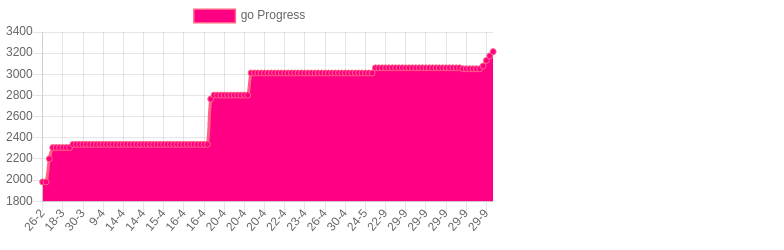
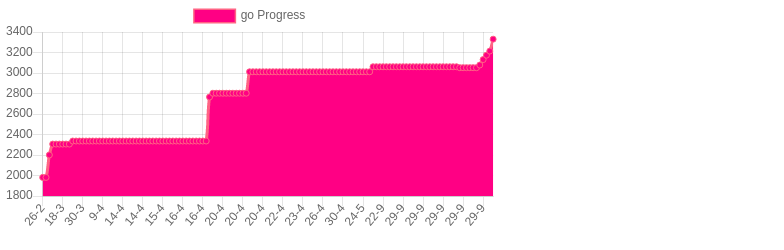
golang design paterns

Changed region(s): [[0.0, 0.14, 0.6429, 0.644], [0.0, 0.672, 0.6429, 0.924]]

diff --git a/total.html b/total.html
@@ -9,7 +9,7 @@
         <script src="https://cdn.jsdelivr.net/npm/chart.js@2.8.0"></script>
         <script>
           var ctx = document.getElementById("total").getContext("2d");
-          const goLabelsDates = ["2021-02-27T01:37:43.112Z","2021-02-27T01:38:01.628Z","2021-03-01T13:41:18.753Z","2021-03-01T14:53:41.991Z","2021-03-01T15:08:00.851Z","2021-03-01T15:09:10.635Z","2021-03-01T15:22:55.385Z","2021-03-03T15:31:41.151Z","2021-03-05T14:02:13.446Z","2021-03-10T14:50:13.297Z","2021-03-11T01:54:03.424Z","2021-03-11T15:32:47.647Z","2021-03-11T16:01:51.191Z","2021-03-12T00:36:04.646Z","2021-03-13T00:14:58.179Z","2021-03-16T05:30:04.043Z","2021-03-17T21:17:52.181Z","2021-03-18T03:42:56.998Z","2021-03-18T03:44:29.834Z","2021-03-18T03:45:35.160Z","2021-03-18T03:45:54.668Z","2021-03-18T03:48:46.007Z","2021-03-18T05:10:54.427Z","2021-03-18T05:44:13.724Z","2021-03-18T05:56:11.032Z","2021-03-18T22:11:28.339Z","2021-03-19T11:28:55.383Z","2021-03-22T13:51:43.977Z","2021-03-23T01:52:09.452Z","2021-03-23T15:45:53.765Z","2021-03-24T01:46:02.104Z","2021-03-30T10:56:50.711Z","2021-04-01T15:03:17.764Z","2021-04-01T23:15:02.096Z","2021-04-07T19:21:55.040Z","2021-04-08T15:21:14.479Z","2021-04-09T23:17:58.037Z","2021-04-09T23:32:26.341Z","2021-04-09T23:34:42.049Z","2021-04-09T23:36:18.092Z","2021-04-10T01:45:40.218Z","2021-04-12T15:41:26.676Z","2021-04-14T02:00:41.039Z","2021-04-14T20:02:44.141Z","2021-04-14T21:14:15.821Z","2021-04-14T22:06:37.573Z","2021-04-14T22:42:14.693Z","2021-04-14T23:10:13.243Z","2021-04-14T23:22:54.824Z","2021-04-14T23:49:37.009Z","2021-04-15T02:28:51.974Z","2021-04-15T14:33:50.618Z","2021-04-15T15:09:11.104Z","2021-04-15T20:35:30.580Z","2021-04-16T00:04:33.158Z","2021-04-16T01:36:06.294Z","2021-04-16T01:53:35.992Z","2021-04-16T02:00:15.474Z","2021-04-16T16:08:40.977Z","2021-04-16T16:27:06.953Z","2021-04-16T16:59:30.526Z","2021-04-16T17:00:53.737Z","2021-04-16T23:14:36.283Z","2021-04-17T00:39:16.890Z","2021-04-17T01:11:09.986Z","2021-04-17T01:32:30.011Z","2021-04-17T01:44:22.446Z","2021-04-17T01:44:33.941Z","2021-04-17T02:35:55.774Z","2021-04-19T15:41:31.091Z","2021-04-20T15:32:32.239Z","2021-04-20T15:33:16.014Z","2021-04-20T15:36:11.438Z","2021-04-20T15:38:44.606Z","2021-04-20T15:41:50.350Z","2021-04-20T15:44:34.448Z","2021-04-20T15:46:49.295Z","2021-04-20T15:47:24.048Z","2021-04-20T15:56:22.046Z","2021-04-20T16:00:02.540Z","2021-04-20T16:01:15.511Z","2021-04-20T23:19:23.938Z","2021-04-21T00:40:54.443Z","2021-04-21T00:47:22.662Z","2021-04-21T02:01:09.006Z","2021-04-21T02:19:22.734Z","2021-04-21T15:53:36.038Z","2021-04-21T16:21:45.704Z","2021-04-21T16:26:32.790Z","2021-04-21T16:40:24.916Z","2021-04-21T16:43:40.235Z","2021-04-21T16:43:59.719Z","2021-04-21T16:44:40.304Z","2021-04-21T16:46:13.191Z","2021-04-21T16:48:41.898Z","2021-04-21T16:49:08.753Z","2021-04-21T16:50:32.397Z","2021-04-21T16:51:58.778Z","2021-04-23T00:49:32.826Z","2021-04-23T15:03:06.320Z","2021-04-23T15:04:13.039Z","2021-04-23T15:05:25.923Z","2021-04-23T15:11:04.285Z","2021-04-23T15:11:38.826Z","2021-04-23T15:12:05.618Z","2021-04-23T15:12:32.508Z","2021-04-23T15:13:17.058Z","2021-04-23T17:08:27.046Z","2021-04-23T18:02:30.357Z","2021-04-23T22:58:36.946Z","2021-04-23T23:00:26.027Z","2021-04-23T23:52:58.438Z","2021-04-24T01:12:51.525Z","2021-04-24T02:01:46.612Z","2021-04-26T12:46:47.336Z","2021-04-26T13:13:50.946Z","2021-04-26T13:16:04.473Z","2021-04-27T00:11:42.582Z","2021-04-30T03:26:37.101Z","2021-04-30T04:33:42.472Z","2021-04-30T05:15:42.646Z","2021-04-30T14:31:10.927Z","2021-05-04T01:51:49.907Z","2021-05-21T00:30:21.777Z","2021-05-24T15:07:09.579Z","2021-05-24T15:08:05.658Z","2021-05-24T15:22:20.903Z","2021-05-24T15:33:34.626Z","2021-05-24T15:46:16.101Z","2021-05-24T15:48:12.171Z","2021-05-24T15:53:54.498Z","2021-05-24T15:56:18.488Z","2021-05-28T22:50:32.914Z","2021-06-02T17:58:30.866Z","2021-07-01T05:04:25.826Z","2021-07-01T05:05:33.079Z","2021-09-03T16:56:54.023Z","2021-09-23T00:10:19.737Z","2021-09-23T00:54:30.987Z","2021-09-25T00:13:33.106Z","2021-09-25T00:56:09.874Z","2021-09-29T20:37:10.460Z","2021-09-29T20:39:45.107Z","2021-09-29T20:45:08.406Z","2021-09-29T20:45:42.995Z","2021-09-29T20:51:54.166Z","2021-09-29T21:04:45.487Z","2021-09-29T21:22:49.580Z","2021-09-29T21:23:34.860Z","2021-09-29T21:24:52.804Z","2021-09-29T21:25:12.938Z","2021-09-29T21:31:41.466Z","2021-09-29T21:32:02.856Z","2021-09-29T21:32:15.096Z","2021-09-29T21:37:01.273Z","2021-09-29T21:39:46.109Z","2021-09-29T21:40:23.862Z","2021-09-29T21:41:38.242Z","2021-09-29T21:45:36.053Z","2021-09-29T21:48:31.229Z","2021-09-29T21:49:46.414Z","2021-09-29T21:50:16.628Z","2021-09-29T21:52:23.035Z","2021-09-29T21:58:46.153Z","2021-09-29T21:59:06.075Z","2021-09-29T22:09:34.545Z","2021-09-29T22:24:59.487Z","2021-09-29T22:39:38.616Z","2021-09-29T23:07:40.178Z","2021-10-01T13:21:48.217Z","2021-10-01T14:11:47.682Z","2021-10-05T00:24:42.303Z","2021-10-05T14:36:34.233Z","2021-10-05T15:30:47.628Z",];
+          const goLabelsDates = ["2021-02-27T01:37:43.112Z","2021-02-27T01:38:01.628Z","2021-03-01T13:41:18.753Z","2021-03-01T14:53:41.991Z","2021-03-01T15:08:00.851Z","2021-03-01T15:09:10.635Z","2021-03-01T15:22:55.385Z","2021-03-03T15:31:41.151Z","2021-03-05T14:02:13.446Z","2021-03-10T14:50:13.297Z","2021-03-11T01:54:03.424Z","2021-03-11T15:32:47.647Z","2021-03-11T16:01:51.191Z","2021-03-12T00:36:04.646Z","2021-03-13T00:14:58.179Z","2021-03-16T05:30:04.043Z","2021-03-17T21:17:52.181Z","2021-03-18T03:42:56.998Z","2021-03-18T03:44:29.834Z","2021-03-18T03:45:35.160Z","2021-03-18T03:45:54.668Z","2021-03-18T03:48:46.007Z","2021-03-18T05:10:54.427Z","2021-03-18T05:44:13.724Z","2021-03-18T05:56:11.032Z","2021-03-18T22:11:28.339Z","2021-03-19T11:28:55.383Z","2021-03-22T13:51:43.977Z","2021-03-23T01:52:09.452Z","2021-03-23T15:45:53.765Z","2021-03-24T01:46:02.104Z","2021-03-30T10:56:50.711Z","2021-04-01T15:03:17.764Z","2021-04-01T23:15:02.096Z","2021-04-07T19:21:55.040Z","2021-04-08T15:21:14.479Z","2021-04-09T23:17:58.037Z","2021-04-09T23:32:26.341Z","2021-04-09T23:34:42.049Z","2021-04-09T23:36:18.092Z","2021-04-10T01:45:40.218Z","2021-04-12T15:41:26.676Z","2021-04-14T02:00:41.039Z","2021-04-14T20:02:44.141Z","2021-04-14T21:14:15.821Z","2021-04-14T22:06:37.573Z","2021-04-14T22:42:14.693Z","2021-04-14T23:10:13.243Z","2021-04-14T23:22:54.824Z","2021-04-14T23:49:37.009Z","2021-04-15T02:28:51.974Z","2021-04-15T14:33:50.618Z","2021-04-15T15:09:11.104Z","2021-04-15T20:35:30.580Z","2021-04-16T00:04:33.158Z","2021-04-16T01:36:06.294Z","2021-04-16T01:53:35.992Z","2021-04-16T02:00:15.474Z","2021-04-16T16:08:40.977Z","2021-04-16T16:27:06.953Z","2021-04-16T16:59:30.526Z","2021-04-16T17:00:53.737Z","2021-04-16T23:14:36.283Z","2021-04-17T00:39:16.890Z","2021-04-17T01:11:09.986Z","2021-04-17T01:32:30.011Z","2021-04-17T01:44:22.446Z","2021-04-17T01:44:33.941Z","2021-04-17T02:35:55.774Z","2021-04-19T15:41:31.091Z","2021-04-20T15:32:32.239Z","2021-04-20T15:33:16.014Z","2021-04-20T15:36:11.438Z","2021-04-20T15:38:44.606Z","2021-04-20T15:41:50.350Z","2021-04-20T15:44:34.448Z","2021-04-20T15:46:49.295Z","2021-04-20T15:47:24.048Z","2021-04-20T15:56:22.046Z","2021-04-20T16:00:02.540Z","2021-04-20T16:01:15.511Z","2021-04-20T23:19:23.938Z","2021-04-21T00:40:54.443Z","2021-04-21T00:47:22.662Z","2021-04-21T02:01:09.006Z","2021-04-21T02:19:22.734Z","2021-04-21T15:53:36.038Z","2021-04-21T16:21:45.704Z","2021-04-21T16:26:32.790Z","2021-04-21T16:40:24.916Z","2021-04-21T16:43:40.235Z","2021-04-21T16:43:59.719Z","2021-04-21T16:44:40.304Z","2021-04-21T16:46:13.191Z","2021-04-21T16:48:41.898Z","2021-04-21T16:49:08.753Z","2021-04-21T16:50:32.397Z","2021-04-21T16:51:58.778Z","2021-04-23T00:49:32.826Z","2021-04-23T15:03:06.320Z","2021-04-23T15:04:13.039Z","2021-04-23T15:05:25.923Z","2021-04-23T15:11:04.285Z","2021-04-23T15:11:38.826Z","2021-04-23T15:12:05.618Z","2021-04-23T15:12:32.508Z","2021-04-23T15:13:17.058Z","2021-04-23T17:08:27.046Z","2021-04-23T18:02:30.357Z","2021-04-23T22:58:36.946Z","2021-04-23T23:00:26.027Z","2021-04-23T23:52:58.438Z","2021-04-24T01:12:51.525Z","2021-04-24T02:01:46.612Z","2021-04-26T12:46:47.336Z","2021-04-26T13:13:50.946Z","2021-04-26T13:16:04.473Z","2021-04-27T00:11:42.582Z","2021-04-30T03:26:37.101Z","2021-04-30T04:33:42.472Z","2021-04-30T05:15:42.646Z","2021-04-30T14:31:10.927Z","2021-05-04T01:51:49.907Z","2021-05-21T00:30:21.777Z","2021-05-24T15:07:09.579Z","2021-05-24T15:08:05.658Z","2021-05-24T15:22:20.903Z","2021-05-24T15:33:34.626Z","2021-05-24T15:46:16.101Z","2021-05-24T15:48:12.171Z","2021-05-24T15:53:54.498Z","2021-05-24T15:56:18.488Z","2021-05-28T22:50:32.914Z","2021-06-02T17:58:30.866Z","2021-07-01T05:04:25.826Z","2021-07-01T05:05:33.079Z","2021-09-03T16:56:54.023Z","2021-09-23T00:10:19.737Z","2021-09-23T00:54:30.987Z","2021-09-25T00:13:33.106Z","2021-09-25T00:56:09.874Z","2021-09-29T20:37:10.460Z","2021-09-29T20:39:45.107Z","2021-09-29T20:45:08.406Z","2021-09-29T20:45:42.995Z","2021-09-29T20:51:54.166Z","2021-09-29T21:04:45.487Z","2021-09-29T21:22:49.580Z","2021-09-29T21:23:34.860Z","2021-09-29T21:24:52.804Z","2021-09-29T21:25:12.938Z","2021-09-29T21:31:41.466Z","2021-09-29T21:32:02.856Z","2021-09-29T21:32:15.096Z","2021-09-29T21:37:01.273Z","2021-09-29T21:39:46.109Z","2021-09-29T21:40:23.862Z","2021-09-29T21:41:38.242Z","2021-09-29T21:45:36.053Z","2021-09-29T21:48:31.229Z","2021-09-29T21:49:46.414Z","2021-09-29T21:50:16.628Z","2021-09-29T21:52:23.035Z","2021-09-29T21:58:46.153Z","2021-09-29T21:59:06.075Z","2021-09-29T22:09:34.545Z","2021-09-29T22:24:59.487Z","2021-09-29T22:39:38.616Z","2021-09-29T23:07:40.178Z","2021-10-01T13:21:48.217Z","2021-10-01T14:11:47.682Z","2021-10-05T00:24:42.303Z","2021-10-05T14:36:34.233Z","2021-10-05T15:30:47.628Z","2021-10-13T14:16:32.194Z",];
           var chart = new Chart(ctx, {
             type: 'line',
             data: {
@@ -18,7 +18,7 @@
                 label: 'total Progress',
                 backgroundColor: 'rgb(255, 0, 132)',
                 borderColor: 'rgb(255, 99, 132)',
-                data: [7975,7975,8307,8526,8526,8527,8573,9171,9358,9751,9908,10232,10231,10643,10911,11353,12576,12666,0,0,169,12835,12906,12953,12953,13141,13254,13354,13406,13417,13568,13708,13845,14886,15140,15267,15766,15777,15777,15777,16211,16345,17062,17247,17324,17464,17697,17849,17916,18002,18002,18202,18292,18515,18590,18744,18837,18876,19030,19086,19114,19143,19378,19465,19607,19714,19782,19782,19791,20220,20257,20257,20257,20257,20257,20257,20257,20257,20257,20257,20257,21179,21238,21279,21319,21319,21430,21506,21543,65995,0,44452,44452,44452,20233,20233,1629,23172,23326,23693,23693,23693,23693,23693,23693,23693,23693,23693,23693,23693,23693,23905,24023,24262,24275,24376,24376,24452,25078,25182,25238,25232,25233,25334,23696,25427,25453,25466,25491,11565,5707,5707,4421,4535,4535,3678,3678,3678,5861,5318,5422,5473,12667,12667,12667,12667,12667,12667,12667,12667,12667,12667,12667,12667,12667,12667,12667,12667,12667,12667,12658,12658,12657,12657,12657,12657,12683,12736,12779,12888,2619,2775,9772,9922,]
+                data: [7975,7975,8307,8526,8526,8527,8573,9171,9358,9751,9908,10232,10231,10643,10911,11353,12576,12666,0,0,169,12835,12906,12953,12953,13141,13254,13354,13406,13417,13568,13708,13845,14886,15140,15267,15766,15777,15777,15777,16211,16345,17062,17247,17324,17464,17697,17849,17916,18002,18002,18202,18292,18515,18590,18744,18837,18876,19030,19086,19114,19143,19378,19465,19607,19714,19782,19782,19791,20220,20257,20257,20257,20257,20257,20257,20257,20257,20257,20257,20257,21179,21238,21279,21319,21319,21430,21506,21543,65995,0,44452,44452,44452,20233,20233,1629,23172,23326,23693,23693,23693,23693,23693,23693,23693,23693,23693,23693,23693,23693,23905,24023,24262,24275,24376,24376,24452,25078,25182,25238,25232,25233,25334,23696,25427,25453,25466,25491,11565,5707,5707,4421,4535,4535,3678,3678,3678,5861,5318,5422,5473,12667,12667,12667,12667,12667,12667,12667,12667,12667,12667,12667,12667,12667,12667,12667,12667,12667,12667,12658,12658,12657,12657,12657,12657,12683,12736,12779,12888,2619,2775,9772,9922,10674,]
               }]
             },
           });

diff --git a/go.html b/go.html
@@ -9,7 +9,7 @@
         <script src="https://cdn.jsdelivr.net/npm/chart.js@2.8.0"></script>
         <script>
           var ctx = document.getElementById("go").getContext("2d");
-          const goLabelsDates = ["2021-02-27T01:37:43.111Z","2021-02-27T01:38:01.627Z","2021-03-01T14:53:41.990Z","2021-03-16T05:30:04.043Z","2021-03-18T05:44:13.724Z","2021-03-18T05:56:11.032Z","2021-03-18T22:11:28.339Z","2021-03-19T11:28:55.382Z","2021-03-22T13:51:43.976Z","2021-03-23T01:52:09.451Z","2021-03-23T15:45:53.764Z","2021-03-24T01:46:02.103Z","2021-03-30T10:56:50.710Z","2021-04-01T15:03:17.763Z","2021-04-01T23:15:02.095Z","2021-04-07T19:21:55.038Z","2021-04-08T15:21:14.478Z","2021-04-09T23:17:58.035Z","2021-04-09T23:32:26.340Z","2021-04-09T23:34:42.047Z","2021-04-09T23:36:18.091Z","2021-04-10T01:45:40.217Z","2021-04-12T15:41:26.675Z","2021-04-14T02:00:41.039Z","2021-04-14T20:02:44.140Z","2021-04-14T21:14:15.820Z","2021-04-14T22:06:37.573Z","2021-04-14T22:42:14.693Z","2021-04-14T23:10:13.242Z","2021-04-14T23:22:54.823Z","2021-04-14T23:49:37.009Z","2021-04-15T02:28:51.973Z","2021-04-15T14:33:50.618Z","2021-04-15T15:09:11.102Z","2021-04-15T20:35:30.579Z","2021-04-16T00:04:33.157Z","2021-04-16T01:36:06.293Z","2021-04-16T01:53:35.991Z","2021-04-16T02:00:15.472Z","2021-04-16T16:08:40.975Z","2021-04-16T16:27:06.952Z","2021-04-16T16:59:30.524Z","2021-04-16T17:00:53.733Z","2021-04-16T23:14:36.282Z","2021-04-17T00:39:16.888Z","2021-04-17T01:11:09.985Z","2021-04-17T01:32:30.008Z","2021-04-17T01:44:22.444Z","2021-04-17T01:44:33.940Z","2021-04-17T02:35:55.773Z","2021-04-19T15:41:31.090Z","2021-04-20T15:32:32.238Z","2021-04-20T15:33:16.013Z","2021-04-20T15:36:11.438Z","2021-04-20T15:38:44.605Z","2021-04-20T15:41:50.349Z","2021-04-20T15:44:34.447Z","2021-04-20T15:46:49.294Z","2021-04-20T15:47:24.047Z","2021-04-20T15:56:22.045Z","2021-04-20T16:00:02.539Z","2021-04-20T16:01:15.510Z","2021-04-20T23:19:23.937Z","2021-04-21T00:40:54.442Z","2021-04-21T00:47:22.661Z","2021-04-21T02:01:09.005Z","2021-04-21T02:19:22.733Z","2021-04-21T15:53:36.037Z","2021-04-21T16:21:45.703Z","2021-04-21T16:26:32.789Z","2021-04-21T16:40:24.916Z","2021-04-21T16:51:58.777Z","2021-04-23T00:49:32.825Z","2021-04-23T15:03:06.327Z","2021-04-23T15:04:13.044Z","2021-04-23T15:05:25.923Z","2021-04-23T15:13:17.062Z","2021-04-23T17:08:27.045Z","2021-04-23T18:02:30.354Z","2021-04-23T22:58:36.945Z","2021-04-23T23:00:26.027Z","2021-04-23T23:52:58.438Z","2021-04-24T01:12:51.524Z","2021-04-24T02:01:46.611Z","2021-04-26T12:46:47.335Z","2021-04-26T13:13:50.945Z","2021-04-26T13:16:04.471Z","2021-04-27T00:11:42.580Z","2021-04-30T03:26:37.098Z","2021-04-30T04:33:42.472Z","2021-04-30T05:15:42.645Z","2021-04-30T14:31:10.926Z","2021-05-04T01:51:49.906Z","2021-05-21T00:30:21.772Z","2021-05-24T15:07:09.573Z","2021-05-24T15:08:05.657Z","2021-05-24T15:22:20.902Z","2021-05-24T15:33:34.625Z","2021-05-24T15:46:16.101Z","2021-07-01T05:05:33.078Z","2021-09-03T16:56:54.022Z","2021-09-23T00:10:19.736Z","2021-09-23T00:54:30.986Z","2021-09-25T00:13:33.105Z","2021-09-25T00:56:09.873Z","2021-09-29T20:37:10.456Z","2021-09-29T20:39:45.106Z","2021-09-29T20:45:08.405Z","2021-09-29T20:45:42.993Z","2021-09-29T20:51:54.165Z","2021-09-29T21:04:45.485Z","2021-09-29T21:22:49.578Z","2021-09-29T21:23:34.859Z","2021-09-29T21:24:52.803Z","2021-09-29T21:25:12.936Z","2021-09-29T21:31:41.464Z","2021-09-29T21:32:02.853Z","2021-09-29T21:32:15.094Z","2021-09-29T21:36:24.777Z","2021-09-29T21:37:01.271Z","2021-09-29T21:39:46.106Z","2021-09-29T21:40:23.860Z","2021-09-29T21:41:38.229Z","2021-09-29T21:45:36.049Z","2021-09-29T21:48:31.220Z","2021-09-29T21:49:46.410Z","2021-09-29T21:50:16.624Z","2021-09-29T21:52:23.032Z","2021-09-29T21:58:46.150Z","2021-09-29T21:59:06.072Z","2021-09-29T22:09:34.542Z","2021-09-29T22:24:59.484Z","2021-09-29T22:39:38.613Z","2021-09-29T23:07:40.175Z","2021-10-01T13:21:48.213Z",];
+          const goLabelsDates = ["2021-02-27T01:37:43.111Z","2021-02-27T01:38:01.627Z","2021-03-01T14:53:41.990Z","2021-03-16T05:30:04.043Z","2021-03-18T05:44:13.724Z","2021-03-18T05:56:11.032Z","2021-03-18T22:11:28.339Z","2021-03-19T11:28:55.382Z","2021-03-22T13:51:43.976Z","2021-03-23T01:52:09.451Z","2021-03-23T15:45:53.764Z","2021-03-24T01:46:02.103Z","2021-03-30T10:56:50.710Z","2021-04-01T15:03:17.763Z","2021-04-01T23:15:02.095Z","2021-04-07T19:21:55.038Z","2021-04-08T15:21:14.478Z","2021-04-09T23:17:58.035Z","2021-04-09T23:32:26.340Z","2021-04-09T23:34:42.047Z","2021-04-09T23:36:18.091Z","2021-04-10T01:45:40.217Z","2021-04-12T15:41:26.675Z","2021-04-14T02:00:41.039Z","2021-04-14T20:02:44.140Z","2021-04-14T21:14:15.820Z","2021-04-14T22:06:37.573Z","2021-04-14T22:42:14.693Z","2021-04-14T23:10:13.242Z","2021-04-14T23:22:54.823Z","2021-04-14T23:49:37.009Z","2021-04-15T02:28:51.973Z","2021-04-15T14:33:50.618Z","2021-04-15T15:09:11.102Z","2021-04-15T20:35:30.579Z","2021-04-16T00:04:33.157Z","2021-04-16T01:36:06.293Z","2021-04-16T01:53:35.991Z","2021-04-16T02:00:15.472Z","2021-04-16T16:08:40.975Z","2021-04-16T16:27:06.952Z","2021-04-16T16:59:30.524Z","2021-04-16T17:00:53.733Z","2021-04-16T23:14:36.282Z","2021-04-17T00:39:16.888Z","2021-04-17T01:11:09.985Z","2021-04-17T01:32:30.008Z","2021-04-17T01:44:22.444Z","2021-04-17T01:44:33.940Z","2021-04-17T02:35:55.773Z","2021-04-19T15:41:31.090Z","2021-04-20T15:32:32.238Z","2021-04-20T15:33:16.013Z","2021-04-20T15:36:11.438Z","2021-04-20T15:38:44.605Z","2021-04-20T15:41:50.349Z","2021-04-20T15:44:34.447Z","2021-04-20T15:46:49.294Z","2021-04-20T15:47:24.047Z","2021-04-20T15:56:22.045Z","2021-04-20T16:00:02.539Z","2021-04-20T16:01:15.510Z","2021-04-20T23:19:23.937Z","2021-04-21T00:40:54.442Z","2021-04-21T00:47:22.661Z","2021-04-21T02:01:09.005Z","2021-04-21T02:19:22.733Z","2021-04-21T15:53:36.037Z","2021-04-21T16:21:45.703Z","2021-04-21T16:26:32.789Z","2021-04-21T16:40:24.916Z","2021-04-21T16:51:58.777Z","2021-04-23T00:49:32.825Z","2021-04-23T15:03:06.327Z","2021-04-23T15:04:13.044Z","2021-04-23T15:05:25.923Z","2021-04-23T15:13:17.062Z","2021-04-23T17:08:27.045Z","2021-04-23T18:02:30.354Z","2021-04-23T22:58:36.945Z","2021-04-23T23:00:26.027Z","2021-04-23T23:52:58.438Z","2021-04-24T01:12:51.524Z","2021-04-24T02:01:46.611Z","2021-04-26T12:46:47.335Z","2021-04-26T13:13:50.945Z","2021-04-26T13:16:04.471Z","2021-04-27T00:11:42.580Z","2021-04-30T03:26:37.098Z","2021-04-30T04:33:42.472Z","2021-04-30T05:15:42.645Z","2021-04-30T14:31:10.926Z","2021-05-04T01:51:49.906Z","2021-05-21T00:30:21.772Z","2021-05-24T15:07:09.573Z","2021-05-24T15:08:05.657Z","2021-05-24T15:22:20.902Z","2021-05-24T15:33:34.625Z","2021-05-24T15:46:16.101Z","2021-07-01T05:05:33.078Z","2021-09-03T16:56:54.022Z","2021-09-23T00:10:19.736Z","2021-09-23T00:54:30.986Z","2021-09-25T00:13:33.105Z","2021-09-25T00:56:09.873Z","2021-09-29T20:37:10.456Z","2021-09-29T20:39:45.106Z","2021-09-29T20:45:08.405Z","2021-09-29T20:45:42.993Z","2021-09-29T20:51:54.165Z","2021-09-29T21:04:45.485Z","2021-09-29T21:22:49.578Z","2021-09-29T21:23:34.859Z","2021-09-29T21:24:52.803Z","2021-09-29T21:25:12.936Z","2021-09-29T21:31:41.464Z","2021-09-29T21:32:02.853Z","2021-09-29T21:32:15.094Z","2021-09-29T21:36:24.777Z","2021-09-29T21:37:01.271Z","2021-09-29T21:39:46.106Z","2021-09-29T21:40:23.860Z","2021-09-29T21:41:38.229Z","2021-09-29T21:45:36.049Z","2021-09-29T21:48:31.220Z","2021-09-29T21:49:46.410Z","2021-09-29T21:50:16.624Z","2021-09-29T21:52:23.032Z","2021-09-29T21:58:46.150Z","2021-09-29T21:59:06.072Z","2021-09-29T22:09:34.542Z","2021-09-29T22:24:59.484Z","2021-09-29T22:39:38.613Z","2021-09-29T23:07:40.175Z","2021-10-01T13:21:48.213Z","2021-10-13T14:16:32.192Z",];
           var chart = new Chart(ctx, {
             type: 'line',
             data: {
@@ -18,7 +18,7 @@
                 label: 'go Progress',
                 backgroundColor: 'rgb(255, 0, 132)',
                 borderColor: 'rgb(255, 99, 132)',
-                data: [1982,1982,2201,2307,2307,2307,2307,2307,2307,2337,2337,2337,2337,2337,2337,2337,2337,2337,2337,2337,2337,2337,2337,2337,2337,2337,2337,2337,2337,2337,2337,2337,2337,2337,2337,2337,2337,2337,2337,2337,2337,2337,2337,2337,2337,2337,2337,2337,2337,2337,2766,2803,2803,2803,2803,2803,2803,2803,2803,2803,2803,2803,3012,3012,3012,3012,3012,3012,3012,3012,3012,3012,3012,3012,3012,3012,3012,3012,3012,3012,3012,3012,3012,3012,3012,3012,3012,3012,3012,3012,3012,3012,3012,3012,3012,3012,3012,3012,3012,3061,3061,3061,3061,3061,3061,3061,3061,3061,3061,3061,3061,3061,3061,3061,3061,3061,3061,3061,3061,3061,3061,3061,3061,3061,3061,3052,3052,3052,3052,3052,3052,3078,3131,3174,3214,]
+                data: [1982,1982,2201,2307,2307,2307,2307,2307,2307,2337,2337,2337,2337,2337,2337,2337,2337,2337,2337,2337,2337,2337,2337,2337,2337,2337,2337,2337,2337,2337,2337,2337,2337,2337,2337,2337,2337,2337,2337,2337,2337,2337,2337,2337,2337,2337,2337,2337,2337,2337,2766,2803,2803,2803,2803,2803,2803,2803,2803,2803,2803,2803,3012,3012,3012,3012,3012,3012,3012,3012,3012,3012,3012,3012,3012,3012,3012,3012,3012,3012,3012,3012,3012,3012,3012,3012,3012,3012,3012,3012,3012,3012,3012,3012,3012,3012,3012,3012,3012,3061,3061,3061,3061,3061,3061,3061,3061,3061,3061,3061,3061,3061,3061,3061,3061,3061,3061,3061,3061,3061,3061,3061,3061,3061,3061,3052,3052,3052,3052,3052,3052,3078,3131,3174,3214,3330,]
               }]
             },
           });

diff --git a/js.html b/js.html
@@ -9,7 +9,7 @@
         <script src="https://cdn.jsdelivr.net/npm/chart.js@2.8.0"></script>
         <script>
           var ctx = document.getElementById("js").getContext("2d");
-          const goLabelsDates = ["2021-02-27T01:37:43.110Z","2021-02-27T01:38:01.626Z","2021-03-11T01:54:03.422Z","2021-03-17T21:17:52.179Z","2021-03-18T05:44:13.723Z","2021-03-18T05:56:11.032Z","2021-03-18T22:11:28.338Z","2021-03-19T11:28:55.382Z","2021-03-22T13:51:43.976Z","2021-03-23T01:52:09.451Z","2021-03-23T15:45:53.764Z","2021-03-24T01:46:02.103Z","2021-03-30T10:56:50.709Z","2021-04-01T15:03:17.762Z","2021-04-01T23:15:02.094Z","2021-04-07T19:21:55.038Z","2021-04-08T15:21:14.478Z","2021-04-09T23:17:58.035Z","2021-04-09T23:32:26.339Z","2021-04-09T23:34:42.047Z","2021-04-09T23:36:18.091Z","2021-04-10T01:45:40.217Z","2021-04-12T15:41:26.675Z","2021-04-14T02:00:41.038Z","2021-04-14T20:02:44.140Z","2021-04-14T21:14:15.820Z","2021-04-14T22:06:37.572Z","2021-04-14T22:42:14.692Z","2021-04-14T23:10:13.242Z","2021-04-14T23:22:54.823Z","2021-04-14T23:49:37.008Z","2021-04-15T02:28:51.973Z","2021-04-15T14:33:50.618Z","2021-04-15T15:09:11.102Z","2021-04-15T20:35:30.579Z","2021-04-16T00:04:33.157Z","2021-04-16T01:36:06.293Z","2021-04-16T01:53:35.990Z","2021-04-16T02:00:15.472Z","2021-04-16T16:08:40.975Z","2021-04-16T16:27:06.951Z","2021-04-16T16:59:30.524Z","2021-04-16T17:00:53.732Z","2021-04-16T23:14:36.282Z","2021-04-17T00:39:16.888Z","2021-04-17T01:11:09.984Z","2021-04-17T01:32:30.007Z","2021-04-17T01:44:22.442Z","2021-04-17T01:44:33.939Z","2021-04-17T02:35:55.772Z","2021-04-19T15:41:31.090Z","2021-04-20T15:32:32.237Z","2021-04-20T15:33:16.013Z","2021-04-20T15:36:11.437Z","2021-04-20T15:38:44.605Z","2021-04-20T15:41:50.349Z","2021-04-20T15:44:34.447Z","2021-04-20T15:46:49.293Z","2021-04-20T15:47:24.046Z","2021-04-20T15:56:22.045Z","2021-04-20T16:00:02.539Z","2021-04-20T16:01:15.510Z","2021-04-20T23:19:23.937Z","2021-04-21T00:40:54.442Z","2021-04-21T00:47:22.661Z","2021-04-21T02:01:09.004Z","2021-04-21T02:19:22.733Z","2021-04-21T15:53:36.037Z","2021-04-21T16:21:45.703Z","2021-04-21T16:26:32.789Z","2021-04-21T16:40:24.915Z","2021-04-21T16:51:58.777Z","2021-04-23T00:49:32.825Z","2021-04-23T15:03:06.327Z","2021-04-23T15:04:13.044Z","2021-04-23T15:05:25.922Z","2021-04-23T15:13:17.062Z","2021-04-23T17:08:27.043Z","2021-04-23T18:02:30.352Z","2021-04-23T22:58:36.943Z","2021-04-23T23:00:26.025Z","2021-04-23T23:52:58.436Z","2021-04-24T01:12:51.523Z","2021-04-24T02:01:46.609Z","2021-04-26T12:46:47.335Z","2021-04-26T13:13:50.943Z","2021-04-26T13:16:04.470Z","2021-04-27T00:11:42.579Z","2021-04-30T03:26:37.096Z","2021-04-30T04:33:42.471Z","2021-04-30T05:15:42.644Z","2021-04-30T14:31:10.924Z","2021-05-04T01:51:49.905Z","2021-05-21T00:30:21.768Z","2021-05-24T15:07:09.571Z","2021-05-24T15:08:05.656Z","2021-05-24T15:22:20.900Z","2021-05-24T15:33:34.624Z","2021-05-24T15:46:16.099Z","2021-09-29T20:39:45.105Z","2021-09-29T20:45:08.404Z","2021-09-29T20:45:42.992Z","2021-09-29T20:51:54.164Z","2021-09-29T21:04:45.485Z","2021-09-29T21:22:49.578Z","2021-09-29T21:23:34.858Z","2021-09-29T21:24:52.802Z","2021-09-29T21:25:12.936Z","2021-09-29T21:31:41.463Z","2021-09-29T21:32:02.853Z","2021-09-29T21:32:15.093Z","2021-09-29T21:36:24.777Z","2021-09-29T21:37:01.271Z","2021-09-29T21:39:46.105Z","2021-09-29T21:40:23.859Z","2021-09-29T21:41:38.228Z","2021-09-29T21:45:36.048Z","2021-09-29T21:48:31.220Z","2021-09-29T21:49:46.410Z","2021-09-29T21:50:16.622Z","2021-09-29T21:52:23.030Z","2021-09-29T21:58:46.149Z","2021-09-29T21:59:06.071Z","2021-09-29T22:09:34.540Z","2021-09-29T22:24:59.483Z","2021-09-29T22:39:38.612Z","2021-09-29T23:07:40.174Z","2021-10-01T13:21:48.212Z","2021-10-05T14:36:34.229Z","2021-10-05T15:30:47.625Z",];
+          const goLabelsDates = ["2021-02-27T01:37:43.110Z","2021-02-27T01:38:01.626Z","2021-03-11T01:54:03.422Z","2021-03-17T21:17:52.179Z","2021-03-18T05:44:13.723Z","2021-03-18T05:56:11.032Z","2021-03-18T22:11:28.338Z","2021-03-19T11:28:55.382Z","2021-03-22T13:51:43.976Z","2021-03-23T01:52:09.451Z","2021-03-23T15:45:53.764Z","2021-03-24T01:46:02.103Z","2021-03-30T10:56:50.709Z","2021-04-01T15:03:17.762Z","2021-04-01T23:15:02.094Z","2021-04-07T19:21:55.038Z","2021-04-08T15:21:14.478Z","2021-04-09T23:17:58.035Z","2021-04-09T23:32:26.339Z","2021-04-09T23:34:42.047Z","2021-04-09T23:36:18.091Z","2021-04-10T01:45:40.217Z","2021-04-12T15:41:26.675Z","2021-04-14T02:00:41.038Z","2021-04-14T20:02:44.140Z","2021-04-14T21:14:15.820Z","2021-04-14T22:06:37.572Z","2021-04-14T22:42:14.692Z","2021-04-14T23:10:13.242Z","2021-04-14T23:22:54.823Z","2021-04-14T23:49:37.008Z","2021-04-15T02:28:51.973Z","2021-04-15T14:33:50.618Z","2021-04-15T15:09:11.102Z","2021-04-15T20:35:30.579Z","2021-04-16T00:04:33.157Z","2021-04-16T01:36:06.293Z","2021-04-16T01:53:35.990Z","2021-04-16T02:00:15.472Z","2021-04-16T16:08:40.975Z","2021-04-16T16:27:06.951Z","2021-04-16T16:59:30.524Z","2021-04-16T17:00:53.732Z","2021-04-16T23:14:36.282Z","2021-04-17T00:39:16.888Z","2021-04-17T01:11:09.984Z","2021-04-17T01:32:30.007Z","2021-04-17T01:44:22.442Z","2021-04-17T01:44:33.939Z","2021-04-17T02:35:55.772Z","2021-04-19T15:41:31.090Z","2021-04-20T15:32:32.237Z","2021-04-20T15:33:16.013Z","2021-04-20T15:36:11.437Z","2021-04-20T15:38:44.605Z","2021-04-20T15:41:50.349Z","2021-04-20T15:44:34.447Z","2021-04-20T15:46:49.293Z","2021-04-20T15:47:24.046Z","2021-04-20T15:56:22.045Z","2021-04-20T16:00:02.539Z","2021-04-20T16:01:15.510Z","2021-04-20T23:19:23.937Z","2021-04-21T00:40:54.442Z","2021-04-21T00:47:22.661Z","2021-04-21T02:01:09.004Z","2021-04-21T02:19:22.733Z","2021-04-21T15:53:36.037Z","2021-04-21T16:21:45.703Z","2021-04-21T16:26:32.789Z","2021-04-21T16:40:24.915Z","2021-04-21T16:51:58.777Z","2021-04-23T00:49:32.825Z","2021-04-23T15:03:06.327Z","2021-04-23T15:04:13.044Z","2021-04-23T15:05:25.922Z","2021-04-23T15:13:17.062Z","2021-04-23T17:08:27.043Z","2021-04-23T18:02:30.352Z","2021-04-23T22:58:36.943Z","2021-04-23T23:00:26.025Z","2021-04-23T23:52:58.436Z","2021-04-24T01:12:51.523Z","2021-04-24T02:01:46.609Z","2021-04-26T12:46:47.335Z","2021-04-26T13:13:50.943Z","2021-04-26T13:16:04.470Z","2021-04-27T00:11:42.579Z","2021-04-30T03:26:37.096Z","2021-04-30T04:33:42.471Z","2021-04-30T05:15:42.644Z","2021-04-30T14:31:10.924Z","2021-05-04T01:51:49.905Z","2021-05-21T00:30:21.768Z","2021-05-24T15:07:09.571Z","2021-05-24T15:08:05.656Z","2021-05-24T15:22:20.900Z","2021-05-24T15:33:34.624Z","2021-05-24T15:46:16.099Z","2021-09-29T20:39:45.105Z","2021-09-29T20:45:08.404Z","2021-09-29T20:45:42.992Z","2021-09-29T20:51:54.164Z","2021-09-29T21:04:45.485Z","2021-09-29T21:22:49.578Z","2021-09-29T21:23:34.858Z","2021-09-29T21:24:52.802Z","2021-09-29T21:25:12.936Z","2021-09-29T21:31:41.463Z","2021-09-29T21:32:02.853Z","2021-09-29T21:32:15.093Z","2021-09-29T21:36:24.777Z","2021-09-29T21:37:01.271Z","2021-09-29T21:39:46.105Z","2021-09-29T21:40:23.859Z","2021-09-29T21:41:38.228Z","2021-09-29T21:45:36.048Z","2021-09-29T21:48:31.220Z","2021-09-29T21:49:46.410Z","2021-09-29T21:50:16.622Z","2021-09-29T21:52:23.030Z","2021-09-29T21:58:46.149Z","2021-09-29T21:59:06.071Z","2021-09-29T22:09:34.540Z","2021-09-29T22:24:59.483Z","2021-09-29T22:39:38.612Z","2021-09-29T23:07:40.174Z","2021-10-01T13:21:48.212Z","2021-10-05T14:36:34.229Z","2021-10-05T15:30:47.625Z","2021-10-13T14:16:32.192Z",];
           var chart = new Chart(ctx, {
             type: 'line',
             data: {
@@ -18,7 +18,7 @@
                 label: 'js Progress',
                 backgroundColor: 'rgb(255, 0, 132)',
                 borderColor: 'rgb(255, 99, 132)',
-                data: [1822,1822,1979,3053,3053,3053,3053,3053,3104,3104,3104,3255,3287,3287,4328,4490,4593,4835,4835,4835,4835,4835,4835,4835,4835,4835,4835,4835,4835,4835,4835,4835,4835,4835,5010,5085,5085,5085,5085,5085,5085,5085,5085,5197,5284,5426,5533,5601,5601,5610,5610,5610,5610,5610,5610,5610,5610,5610,5610,5610,5610,5610,6164,6164,6164,6164,6164,6164,6164,6164,6164,6164,6308,6675,6675,6675,6675,6675,6675,6675,6675,6887,7005,7183,7196,7297,7183,7183,7183,7183,7183,7183,7183,7183,7183,7183,7183,7183,7183,7194,7194,7194,7194,7194,7194,7194,7194,7194,7194,7194,7194,7194,7194,7194,7194,7194,7194,7194,7194,7194,7194,7194,7194,7194,7194,7194,7194,7194,7194,7344,]
+                data: [1822,1822,1979,3053,3053,3053,3053,3053,3104,3104,3104,3255,3287,3287,4328,4490,4593,4835,4835,4835,4835,4835,4835,4835,4835,4835,4835,4835,4835,4835,4835,4835,4835,4835,5010,5085,5085,5085,5085,5085,5085,5085,5085,5197,5284,5426,5533,5601,5601,5610,5610,5610,5610,5610,5610,5610,5610,5610,5610,5610,5610,5610,6164,6164,6164,6164,6164,6164,6164,6164,6164,6164,6308,6675,6675,6675,6675,6675,6675,6675,6675,6887,7005,7183,7196,7297,7183,7183,7183,7183,7183,7183,7183,7183,7183,7183,7183,7183,7183,7194,7194,7194,7194,7194,7194,7194,7194,7194,7194,7194,7194,7194,7194,7194,7194,7194,7194,7194,7194,7194,7194,7194,7194,7194,7194,7194,7194,7194,7194,7344,7344,]
               }]
             },
           });

diff --git a/config.js b/config.js
@@ -74,12 +74,12 @@ const configLn = [
     subjects: [],
     goal: 500
   }, */
-  /* {
+  {
    ln: 'go',
    title: "go",
    subjects: ["structs", "loops"],
    goal: 3000
- }, */
+ },
   /* {
     ln: 'python',
     title: "python",

diff --git a/Readme.md b/Readme.md
@@ -2,11 +2,11 @@
 |Language|Goal|Lines%|%|%|%|Subjects|
 |----------|-------|-------|--------|--------|--------|--------|
 |js|10000|7344|73|![js](https://raw.githubusercontent.com/kapit4n/l-10000-dev/master/js.png)|react, , node, sequelize, orm, mongodb.|aws sdk, enzyme, node google cloud, node rest, node tips and tricks|
-|ruby|10000|2578|26|![ruby](https://raw.githubusercontent.com/kapit4n/l-10000-dev/master/ruby.png)|migrations, ruby on rails, presenters, models|ruby rails controllers, ruby rails models|
-|TOTAL|9922|49.610%|
+|go|10000|3330|33|![go](https://raw.githubusercontent.com/kapit4n/l-10000-dev/master/go.png)|structs, loops|consumingRESTfulAPI, data structures, design pattern, go slices, image file url, queue, mux|
+|TOTAL|10674|53.370%|
 10/02(0)
 
-10/03(9922)
+10/03(10674)
 
 
   # run it
@@ -29,4 +29,4 @@
   * Angular, React, Vue
   * Spring, Play
   * Scala, Java
-  , 2021-10-05T15:30:47.628Z
+  , 2021-10-13T14:16:32.194Z
